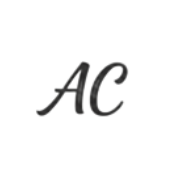
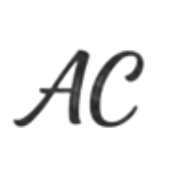
style: 파비콘 이미지 파일 변경

Changed region(s): [[0.0556, 0.25, 0.8056, 0.7222]]

diff --git a/index.html b/index.html
@@ -6,7 +6,7 @@
     <link rel="icon" type="image/svg+xml" href="/favicon.svg" />
     <link rel="shortcut icon" href="/favicon.ico" />
     <link rel="apple-touch-icon" sizes="180x180" href="/apple-touch-icon.png" />
-    <meta name="apple-mobile-web-app-title" content="MyWebSite" />
+    <meta name="apple-mobile-web-app-title" content="Advent" />
     <link rel="manifest" href="/site.webmanifest" />
     <meta name="viewport" content="width=device-width, initial-scale=1.0" />
     <title>advent-calendar</title>
